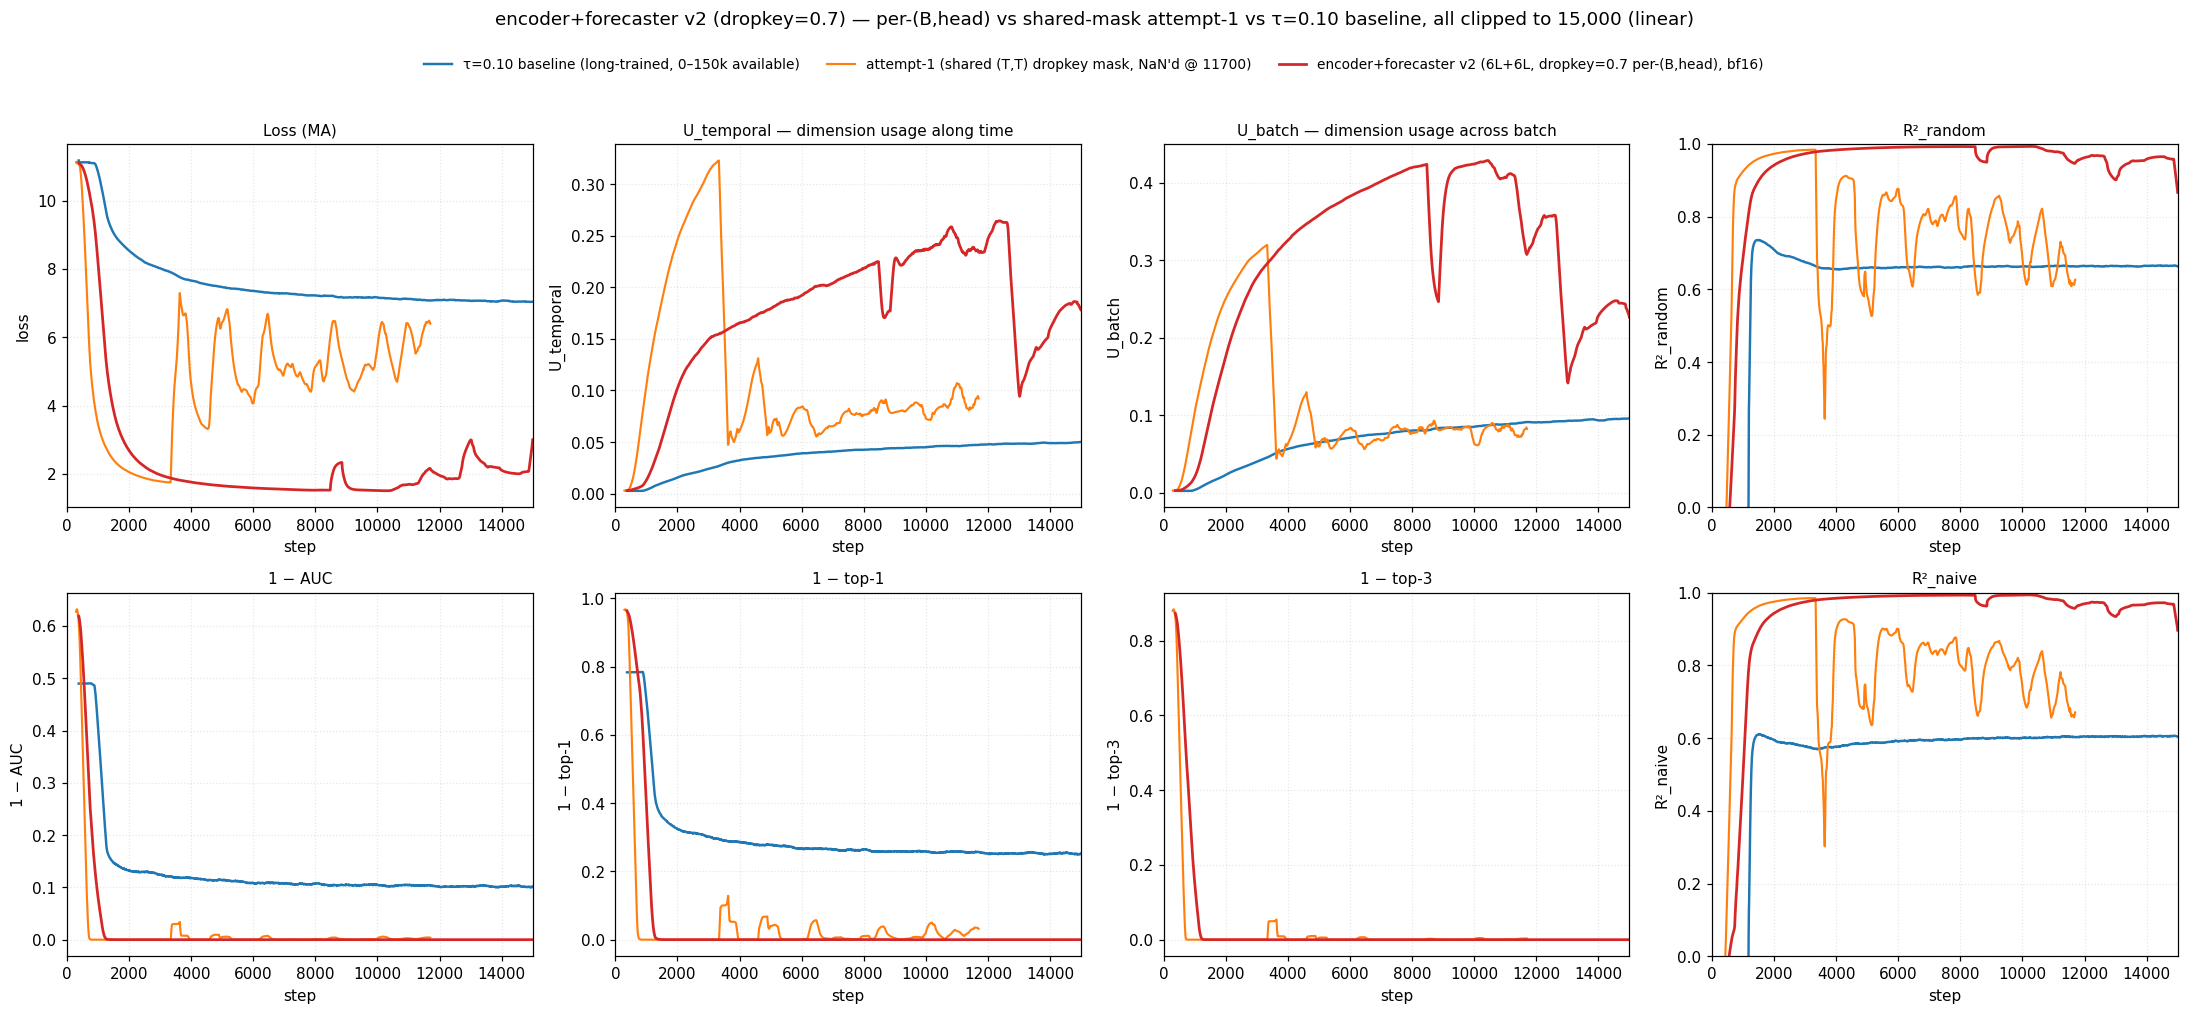
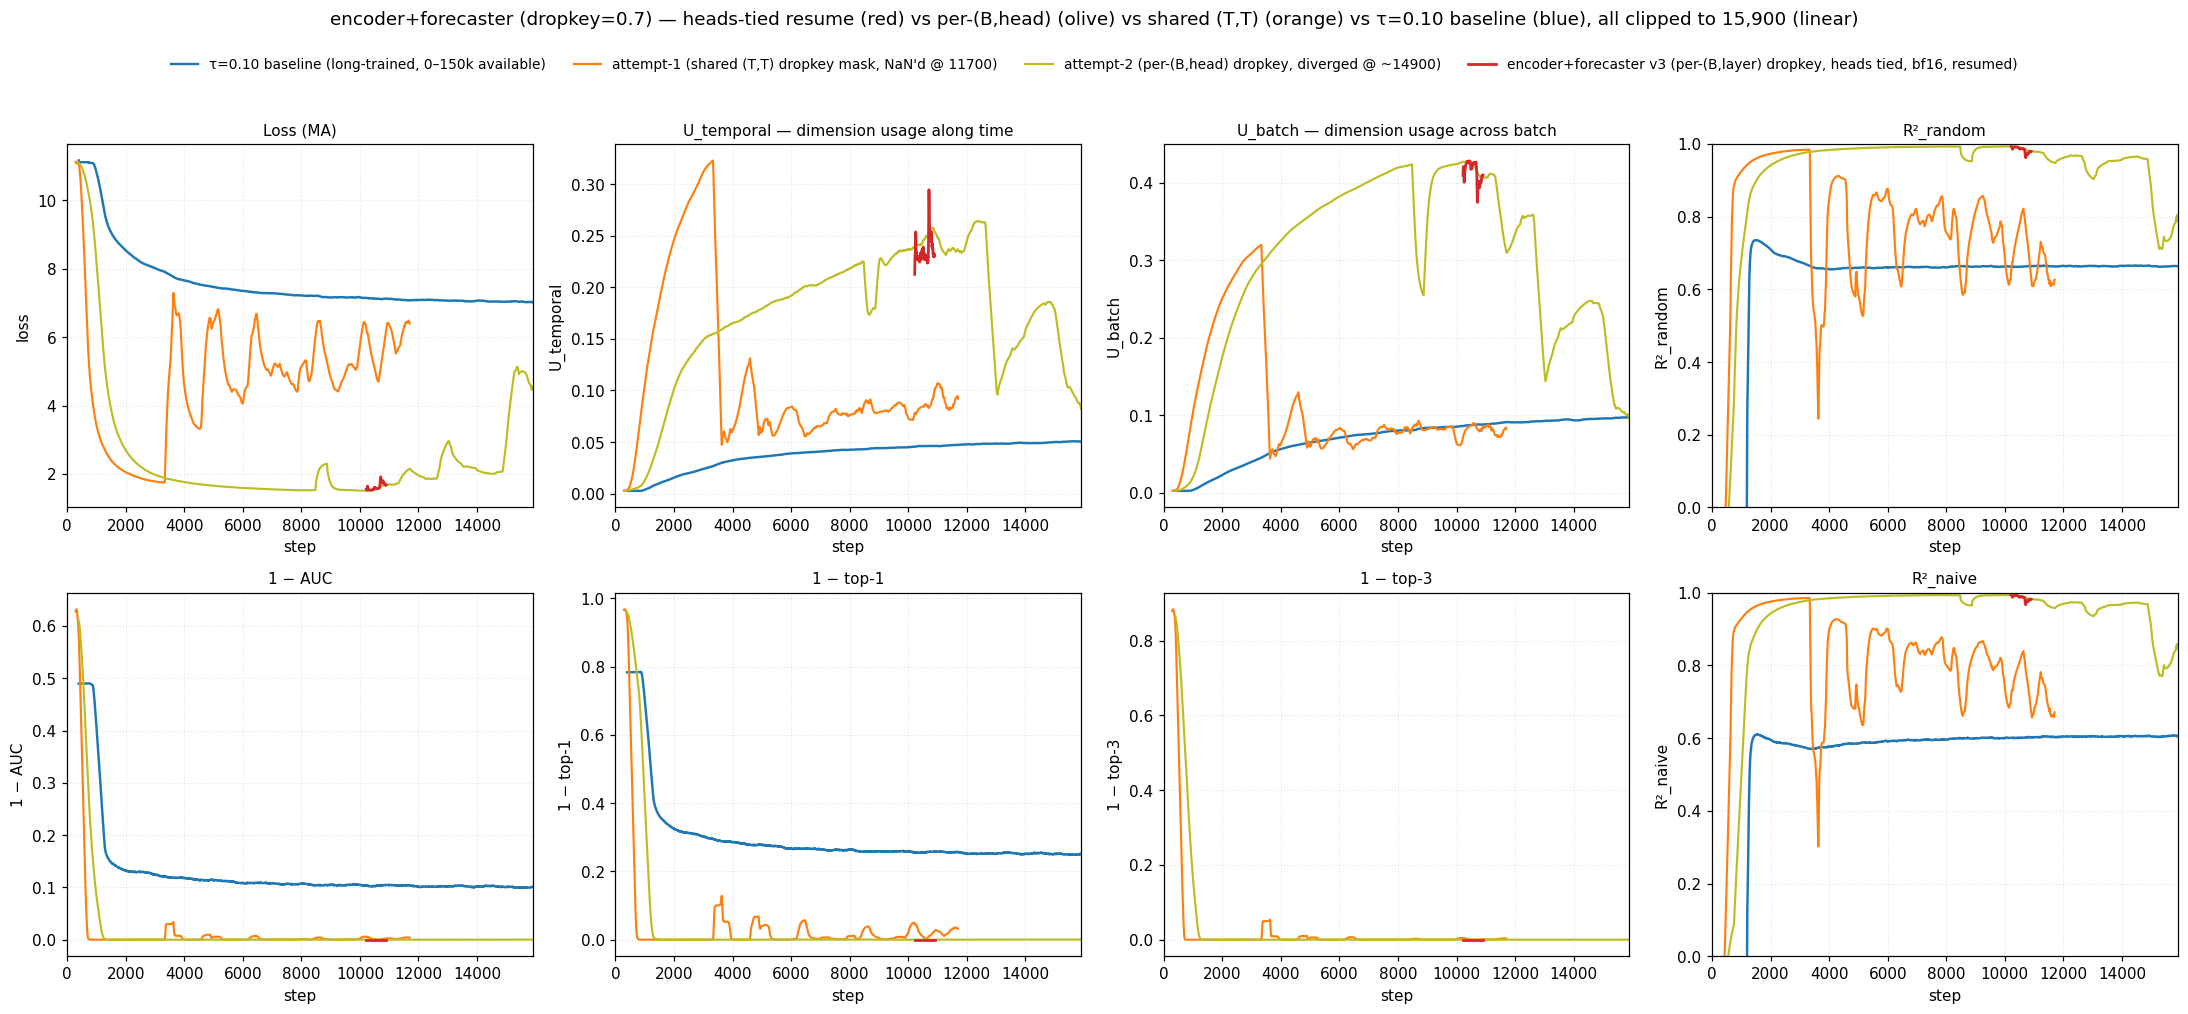
fix(dropkey): add heads-shared mode + resume after attempt-2 divergence
attempt-2 (per-(B,head) dropkey p=0.7) ran clean for ~10k steps then
diverged at step ~14900: ema_loss climbed from 2.07 → 5.21 → 7+ over
1000 steps with no recovery, R² collapsed 0.96 → 0.73, U_b 0.25 → 0.11.
Killed at step 15900, artifacts archived as enc_fcst_dropkey07_pb_50k_attempt2_*.

Root cause: per-(B,head) at p=0.7 still has too much variance — drops
of past keys correlate enough across the 256 batch rows that a bad
sequence of mask draws nudges the model out of the low-loss attractor
without recovery.

Fix: add `--encoder-dropkey-share-heads` flag. When set, the per-step
mask is drawn ONCE per (batch_row, layer) and replicated to all heads:
independence preserved on batch + layer, but heads see identical
drops within a (B, layer). Drops variance by ~num_heads× and aligns
with the user's pre-authorized #18 fallback (forces heads to disagree
on positions rather than cooperating to count).

Plumbing: src/blocks.py, src/models.py, train.py CLI all updated.
Smoke-tested: shape (B*nhead, T, T), heads of same row identical,
rows differ, causal invariants preserved.

Resumed enc_fcst_dropkey07_pb_50k_best_loss.pth (step 10200, the
lowest-loss checkpoint before attempt-2 divergence) as new run
enc_fcst_dropkey07_pb_hs_50k. Step 10300 post-resume: loss 1.54,
R²=0.99, U_b=0.42 — back in the good attractor.

Plot updated to 4 arms: blue baseline / orange attempt-1 (NaN @ 11700)
/ olive attempt-2 (diverged @ ~14900) / red attempt-3 headline (heads
[…]

diff --git a/src/blocks.py b/src/blocks.py
@@ -124,7 +124,8 @@ class TransformerBlock(nn.Module):
     def __init__(self, dimension_e, nhead=8, num_layers=6, feedforward_mult=None,
                  activation=None, input_to_latent=None, dropout=0, depthwise_conv=3,
                  norm_first=True, norm_type='layernorm', num_encoder_layers=0,
-                 encoder_dropkey: float = 0.0):
+                 encoder_dropkey: float = 0.0,
+                 encoder_dropkey_share_heads: bool = False):
         super().__init__()
 
         if feedforward_mult is None:
@@ -138,10 +139,17 @@ class TransformerBlock(nn.Module):
         # p. Diagonal stays 0 (self-attention preserved), above-diagonal stays
         # −∞ (causal). Eval / p=0 falls back to the cached pure causal mask
         # so checkpoints stay bit-identical to pre-flag behaviour.
-        # Mask is per-(B, head) independent — sharing across the batch
-        # correlated noise across all 256 rows in lockstep and triggered
-        # NaN at step 11700 of the first dropkey=0.7 run.
+        # Mask is per-(B, head) independent by default — sharing across
+        # the batch correlated noise across all 256 rows in lockstep and
+        # triggered NaN at step 11700 of attempt-1 (shared (T,T) mask).
+        # encoder_dropkey_share_heads=True ties heads within each batch
+        # row: same mask for all heads of a given (B, layer) — drops
+        # variance by ~num_heads× and forces heads to disagree on which
+        # positions they attend to (rather than cooperating to count).
+        # Used after attempt-2 (per-(B,head) at p=0.7) diverged at step
+        # ~14900 with sustained loss climb 2 → 5 → 7 with no recovery.
         self.encoder_dropkey = float(encoder_dropkey)
+        self.encoder_dropkey_share_heads = bool(encoder_dropkey_share_heads)
         self.nhead = nhead
 
         # Pre-forecaster causal encoder stack. When num_encoder_layers=0 the
@@ -206,7 +214,8 @@ class TransformerBlock(nn.Module):
                 dk_mask = self._dropkey_causal_mask(
                     x.size(1), x.size(0), self.nhead,
                     x.device, self.causal_mask.dtype,
-                    self.encoder_dropkey)
+                    self.encoder_dropkey,
+                    self.encoder_dropkey_share_heads)
                 x = layer(x, tgt_mask=dk_mask, tgt_is_causal=False)
             else:
                 x = layer(x, tgt_mask=self.causal_mask, tgt_is_causal=True)
@@ -226,34 +235,48 @@ class TransformerBlock(nn.Module):
         return mask
 
     @staticmethod
-    def _dropkey_causal_mask(T, B, num_heads, device, dtype, p):
-        """Causal mask with random −∞ on strictly-below-diagonal entries,
-        independent per (batch_row, head) slot.
+    def _dropkey_causal_mask(T, B, num_heads, device, dtype, p, share_heads=False):
+        """Causal mask with random −∞ on strictly-below-diagonal entries.
 
         Above-diagonal: −∞ (causal).
         Diagonal: 0 (self always allowed).
         Strictly below-diagonal: 0 w.p. (1-p), −∞ w.p. p.
 
         Returns shape (B*num_heads, T, T) — the form `nn.MultiheadAttention`
-        accepts as a per-(batch, head) attn_mask. Each of the B*num_heads
-        slots gets an independent random draw of dropped keys, so the
-        within-batch averaging absorbs the noise that, at p=0.7 with a
-        shared (T,T) mask, hit every row in lockstep and crashed
-        attempt-1 at step 11700.
+        accepts as a per-(batch, head) attn_mask.
+
+        share_heads=False (default): independent per (batch_row, head) draw.
+            Within-batch averaging absorbs the noise. Fixed attempt-1's
+            shared-(T,T) NaN at step 11700, but at p=0.7 attempt-2 still
+            diverged at step ~14900 (sustained 2 → 7 climb).
+
+        share_heads=True: independent per batch row but ALL heads of a
+            given row see the same mask. Drops variance by ~num_heads×
+            and forces heads to disagree on which positions they attend
+            to (rather than cooperating to count). Used after attempt-2
+            divergence; this is the user-pre-authorized fallback.
         """
         causal = TransformerBlock._generate_square_subsequent_mask(T).to(
             device=device, dtype=dtype)
         if p <= 0.0:
-            # Caller still expects per-(B*nhead) shape; broadcast.
             return causal.unsqueeze(0).expand(B * num_heads, -1, -1)
-        N = B * num_heads
-        # Below-diagonal indicator (per-row): 1 strictly below the diagonal.
         below = torch.tril(
             torch.ones(T, T, device=device, dtype=torch.bool), diagonal=-1)
-        # Independent random draw per (batch_row, head).
+        neg_inf = torch.tensor(float('-inf'), device=device, dtype=dtype)
+        if share_heads:
+            # One mask per batch row, replicated across heads.
+            drop = torch.rand(B, T, T, device=device) < p
+            drop_below = drop & below.unsqueeze(0)
+            mask_b = torch.where(
+                drop_below, neg_inf, causal.unsqueeze(0).expand(B, -1, -1))
+            # (B, T, T) → (B, num_heads, T, T) → (B*num_heads, T, T)
+            mask = mask_b.unsqueeze(1).expand(-1, num_heads, -1, -1)
+            mask = mask.reshape(B * num_heads, T, T)
+            return mask
+        # Independent per (batch_row, head).
+        N = B * num_heads
         drop = torch.rand(N, T, T, device=device) < p
         drop_below = drop & below.unsqueeze(0)
-        neg_inf = torch.tensor(float('-inf'), device=device, dtype=dtype)
         mask = torch.where(
             drop_below, neg_inf, causal.unsqueeze(0).expand(N, -1, -1))
         return mask

diff --git a/experiments/2026-05-11_exp_encoder_forecaster/scripts/plot_progress.py b/experiments/2026-05-11_exp_encoder_forecaster/scripts/plot_progress.py
@@ -65,9 +65,12 @@ MAIN = Path("/home/jupyter/contrastive-forecasting")
 # Color palette: saturated, high-contrast.
 #   - τ=0.10 baseline (long-trained, concatenated chunks) → tab:blue
 #   - attempt-1 (shared (T,T) dropkey mask, NaN'd at step 11700) → tab:orange
-#   - per-(B,head) headline arm (dropkey=0.7, fresh per row+head) → tab:red
+#   - attempt-2 (per-(B,head) dropkey, diverged ~14.9k) → olive (visibly
+#                distinct from both tab:orange and tab:red)
+#   - attempt-3 / headline (per-(B,layer) dropkey, heads tied) → tab:red
 C_BASELINE = "#1f77b4"  # tab:blue
 C_ATTEMPT1 = "#ff7f0e"  # tab:orange
+C_ATTEMPT2 = "#bcbd22"  # tab:olive
 C_HEADLINE = "#d62728"  # tab:red
 
 # τ=0.10 baseline is split across resume chunks. Concatenate in step
@@ -79,8 +82,9 @@ BASELINE_CHUNKS = [
     MAIN / "sync_tau_sweep_0_10_150k/checkpoints/tau_sweep_0_10_150k_losses.csv",   # 48001–150000
 ]
 
-NEW_ARM_CSV = MAIN / "checkpoints/enc_fcst_dropkey07_pb_50k_losses.csv"
+NEW_ARM_CSV = MAIN / "checkpoints/enc_fcst_dropkey07_pb_hs_50k_losses.csv"
 ATTEMPT1_CSV = MAIN / "checkpoints/enc_fcst_dropkey07_50k_attempt1_losses.csv"
+ATTEMPT2_CSV = MAIN / "checkpoints/enc_fcst_dropkey07_pb_50k_attempt2_losses.csv"
 
 # (display_label, color, linestyle, lw, csv_path_or_chunks, is_concat)
 ARMS = [
@@ -92,7 +96,11 @@ ARMS = [
      C_ATTEMPT1, "-", 1.4,
      ATTEMPT1_CSV,
      False),
-    ("encoder+forecaster v2 (6L+6L, dropkey=0.7 per-(B,head), bf16)",
+    ("attempt-2 (per-(B,head) dropkey, diverged @ ~14900)",
+     C_ATTEMPT2, "-", 1.4,
+     ATTEMPT2_CSV,
+     False),
+    ("encoder+forecaster v3 (per-(B,layer) dropkey, heads tied, bf16, resumed)",
      C_HEADLINE, "-", 1.8,
      NEW_ARM_CSV,
      False),
@@ -284,8 +292,9 @@ def render_figure(traj, *, logx, logy_metrics, out_path, scale_tag, xmax,
                    bbox_to_anchor=(0.5, 0.985))
 
     fig.suptitle(
-        f"encoder+forecaster v2 (dropkey=0.7) — per-(B,head) vs shared-mask "
-        f"attempt-1 vs τ=0.10 baseline, all clipped to {xmax:,} ({scale_tag})",
+        f"encoder+forecaster (dropkey=0.7) — heads-tied resume (red) vs "
+        f"per-(B,head) (olive) vs shared (T,T) (orange) vs τ=0.10 baseline "
+        f"(blue), all clipped to {xmax:,} ({scale_tag})",
         fontsize=12, y=1.02)
     fig.tight_layout(rect=(0, 0, 1, 0.96))
     fig.savefig(out_path, dpi=110, bbox_inches="tight")
@@ -302,12 +311,15 @@ def main() -> None:
         raise SystemExit("baseline chunks all missing or empty")
     new_arm_max = int(new_arm["step"].max())
     baseline_max = int(baseline["step"].max())
-    # Right edge = the new arm's most recent step (or attempt-1's, while
-    # the new arm hasn't passed it). All three arms get clipped to the
-    # same window before smoothing so the curves end at the same x.
+    # Right edge = the most recent step among the non-baseline arms
+    # (attempt-1 / attempt-2 / attempt-3-headline). All four arms get
+    # clipped to the same window before smoothing so the curves end at
+    # the same x. Capped at baseline_max in case the headline overshoots.
     attempt1 = load_traj(ATTEMPT1_CSV)
     attempt1_max = int(attempt1["step"].max()) if attempt1 is not None else 0
-    xmax = max(new_arm_max, attempt1_max)
+    attempt2 = load_traj(ATTEMPT2_CSV)
+    attempt2_max = int(attempt2["step"].max()) if attempt2 is not None else 0
+    xmax = max(new_arm_max, attempt1_max, attempt2_max)
     xmax = min(xmax, baseline_max)
 
     # Log-x lower bound: snap to the smaller of the two arms' first

diff --git a/experiments/2026-04-27_freq-embedding/scripts/train.py b/experiments/2026-04-27_freq-embedding/scripts/train.py
@@ -122,6 +122,12 @@ def parse_args():
                         "below-diagonal attention entries. 0.0 (default) = "
                         "pure causal. e.g. 0.3 drops 30% of past-key edges "
                         "per layer per step. Forecaster mask is unaffected.")
+    p.add_argument("--encoder-dropkey-share-heads", action="store_true",
+                   help="If set, the per-step dropkey mask is shared across "
+                        "all heads of a given (batch_row, layer). Default "
+                        "False = independent per (batch_row, head). "
+                        "Tying heads drops variance by ~num_heads× and "
+                        "prevents heads from cooperating to count positions.")
     p.add_argument("--encoder-type", default=MODEL_CONFIG["encoder_type"],
                    choices=["mlp", "mlp_wide", "residual_silu", "gru", "conv",
                             "transformer"],
@@ -455,6 +461,7 @@ def main():
     model_config["tau_init"] = tau_init
     model_config["num_encoder_layers"] = args.num_encoder_layers
     model_config["encoder_dropkey"] = args.encoder_dropkey
+    model_config["encoder_dropkey_share_heads"] = args.encoder_dropkey_share_heads
     # Override the loss_shape from CLI (LOSS_SPEC is a module-level default).
     LOSS_SPEC.train_configuration["loss_shape"] = args.loss_shape
     if args.tau is not None:

diff --git a/src/models.py b/src/models.py
@@ -64,7 +64,8 @@ class ConfigurableModel(torch.nn.Module):
                  enc_transformer_chunk_size=8192,
                  enc_transformer_use_grad_checkpoint=True,
                  num_encoder_layers=0,
-                 encoder_dropkey: float = 0.0):
+                 encoder_dropkey: float = 0.0,
+                 encoder_dropkey_share_heads: bool = False):
         super().__init__()
         self.C = C
         self.H = H
@@ -153,6 +154,7 @@ class ConfigurableModel(torch.nn.Module):
             norm_type=norm_type,
             num_encoder_layers=num_encoder_layers,
             encoder_dropkey=encoder_dropkey,
+            encoder_dropkey_share_heads=encoder_dropkey_share_heads,
         )
         # Override activation if requested
         if activation != 'gelu':
